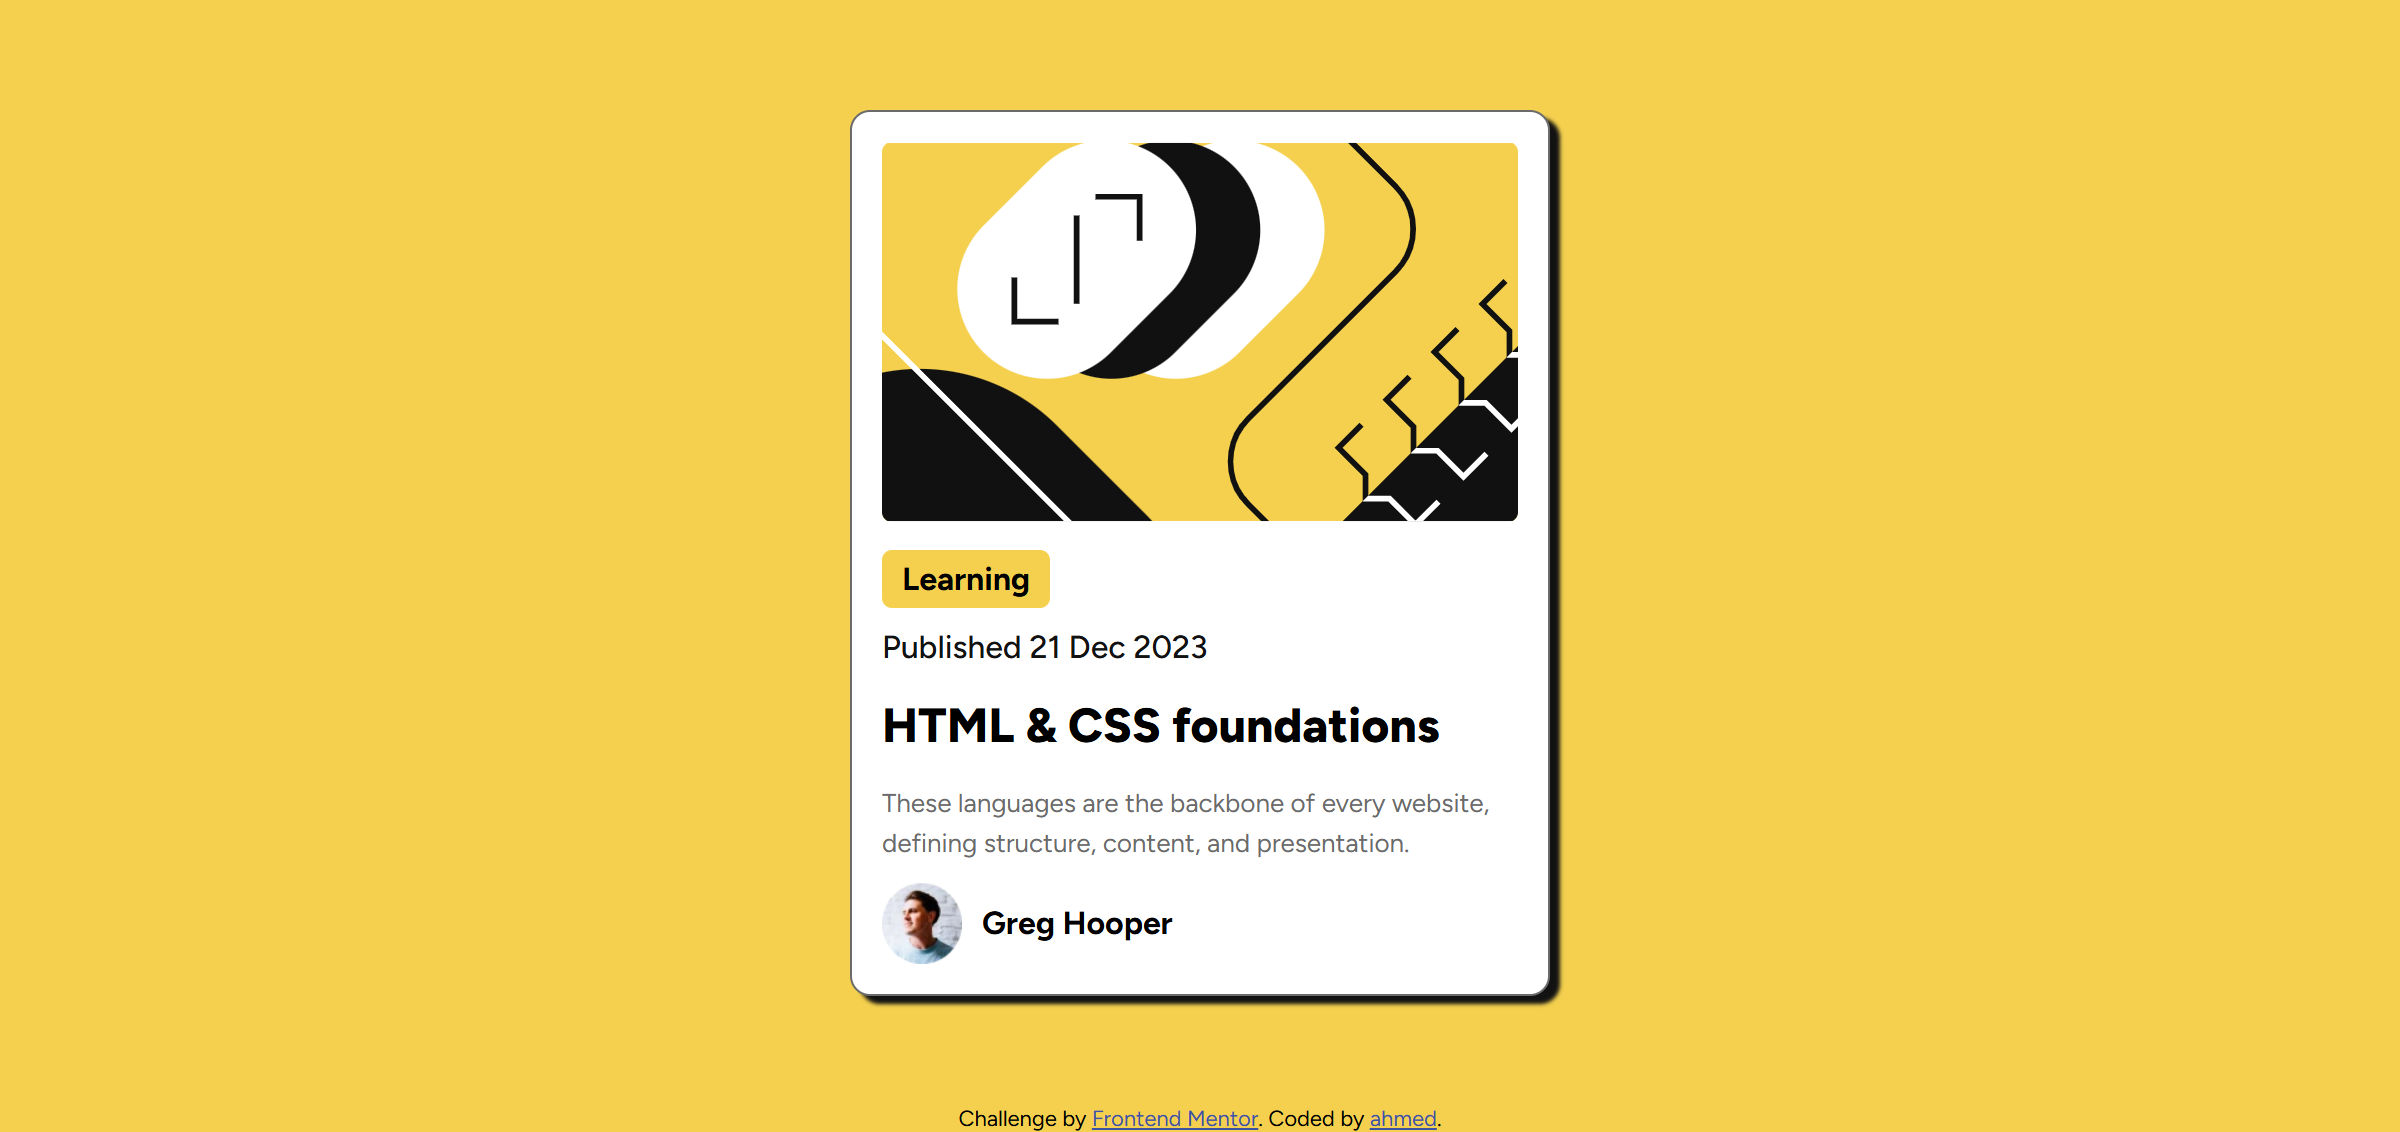
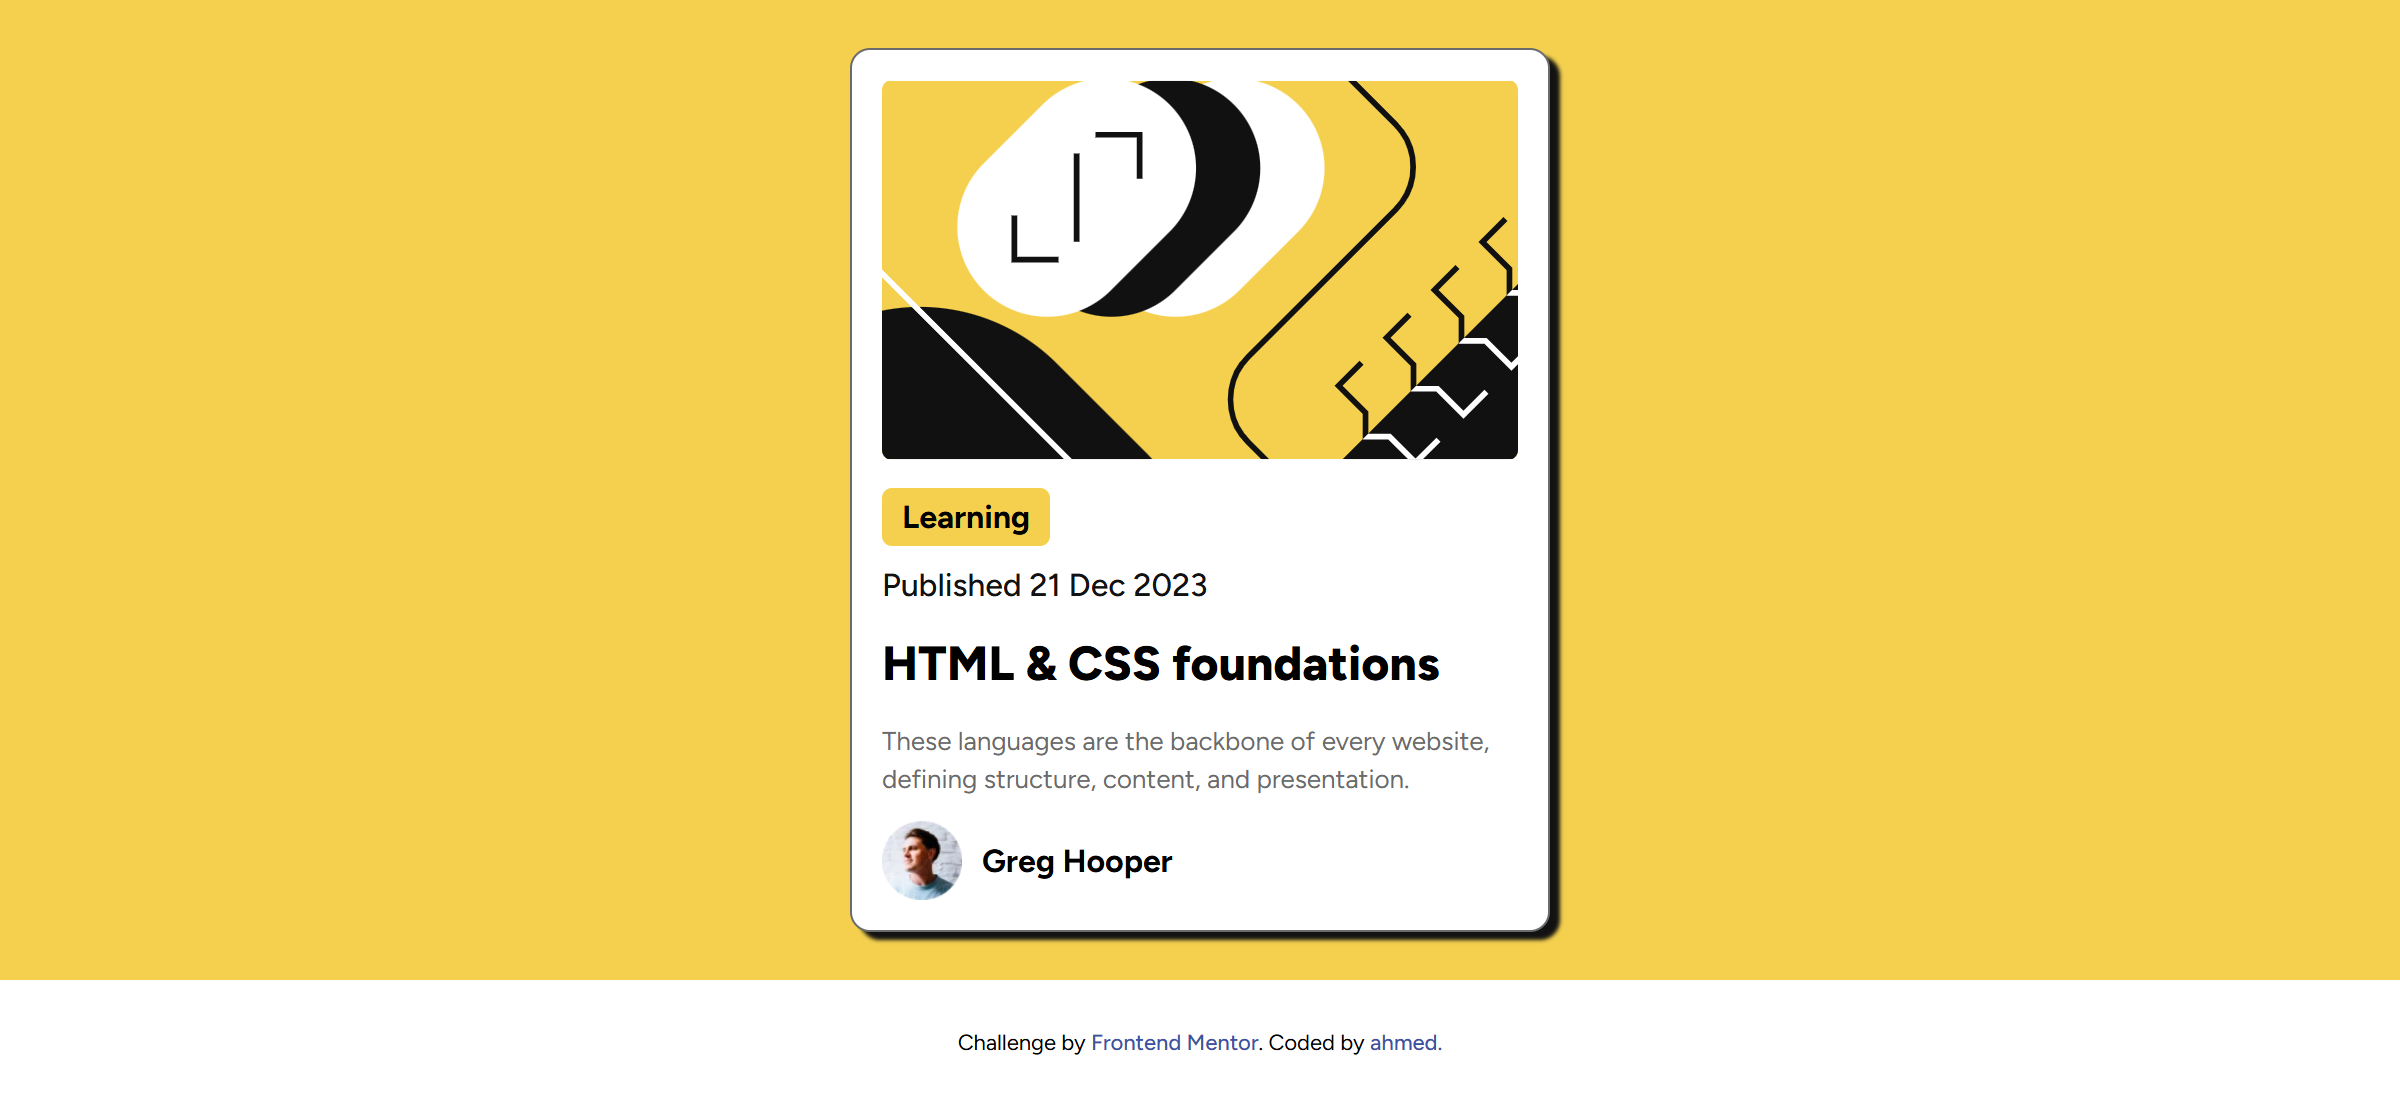
Update project files

Changed region(s): [[0.0, 0.0307, 1.0, 1.0]]

diff --git a/assets/css/main.css b/assets/css/main.css
@@ -81,3 +81,8 @@ footer {
   padding: 25px 0;
   background-color: var(--White);
 }
+footer a {
+  text-decoration: none;
+  font-weight: 500;
+  color: var(--bg);
+}
